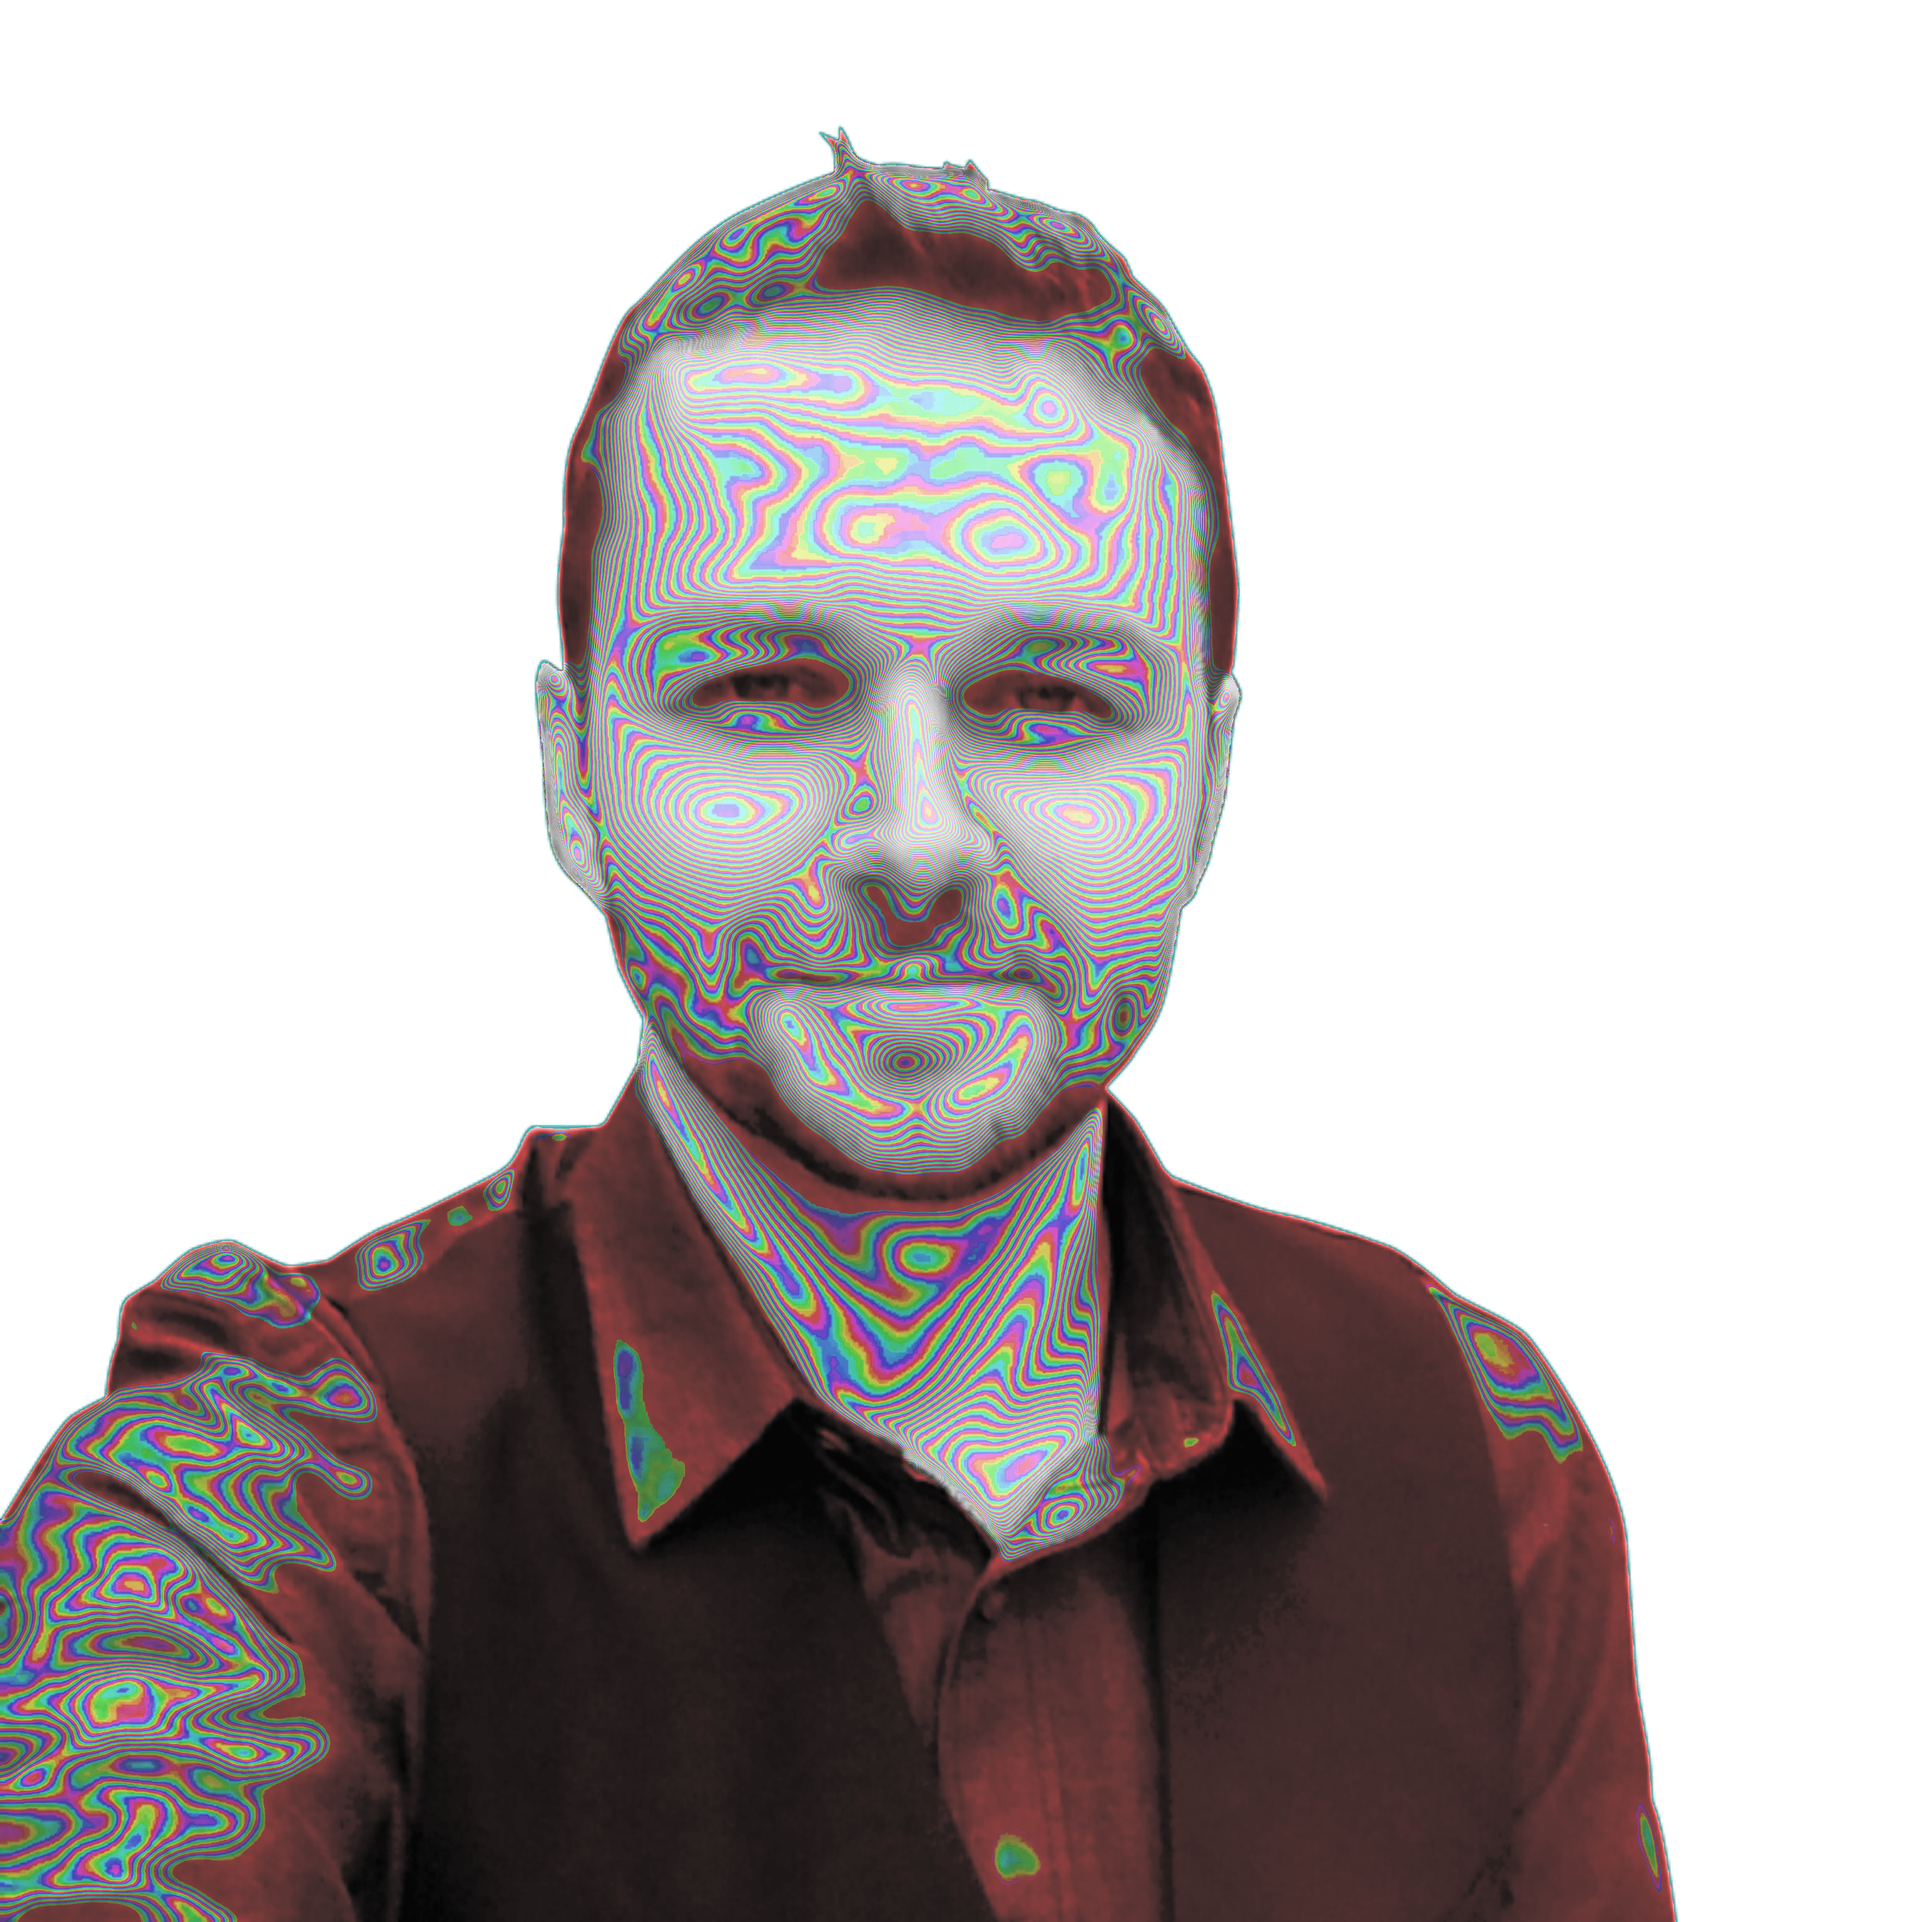
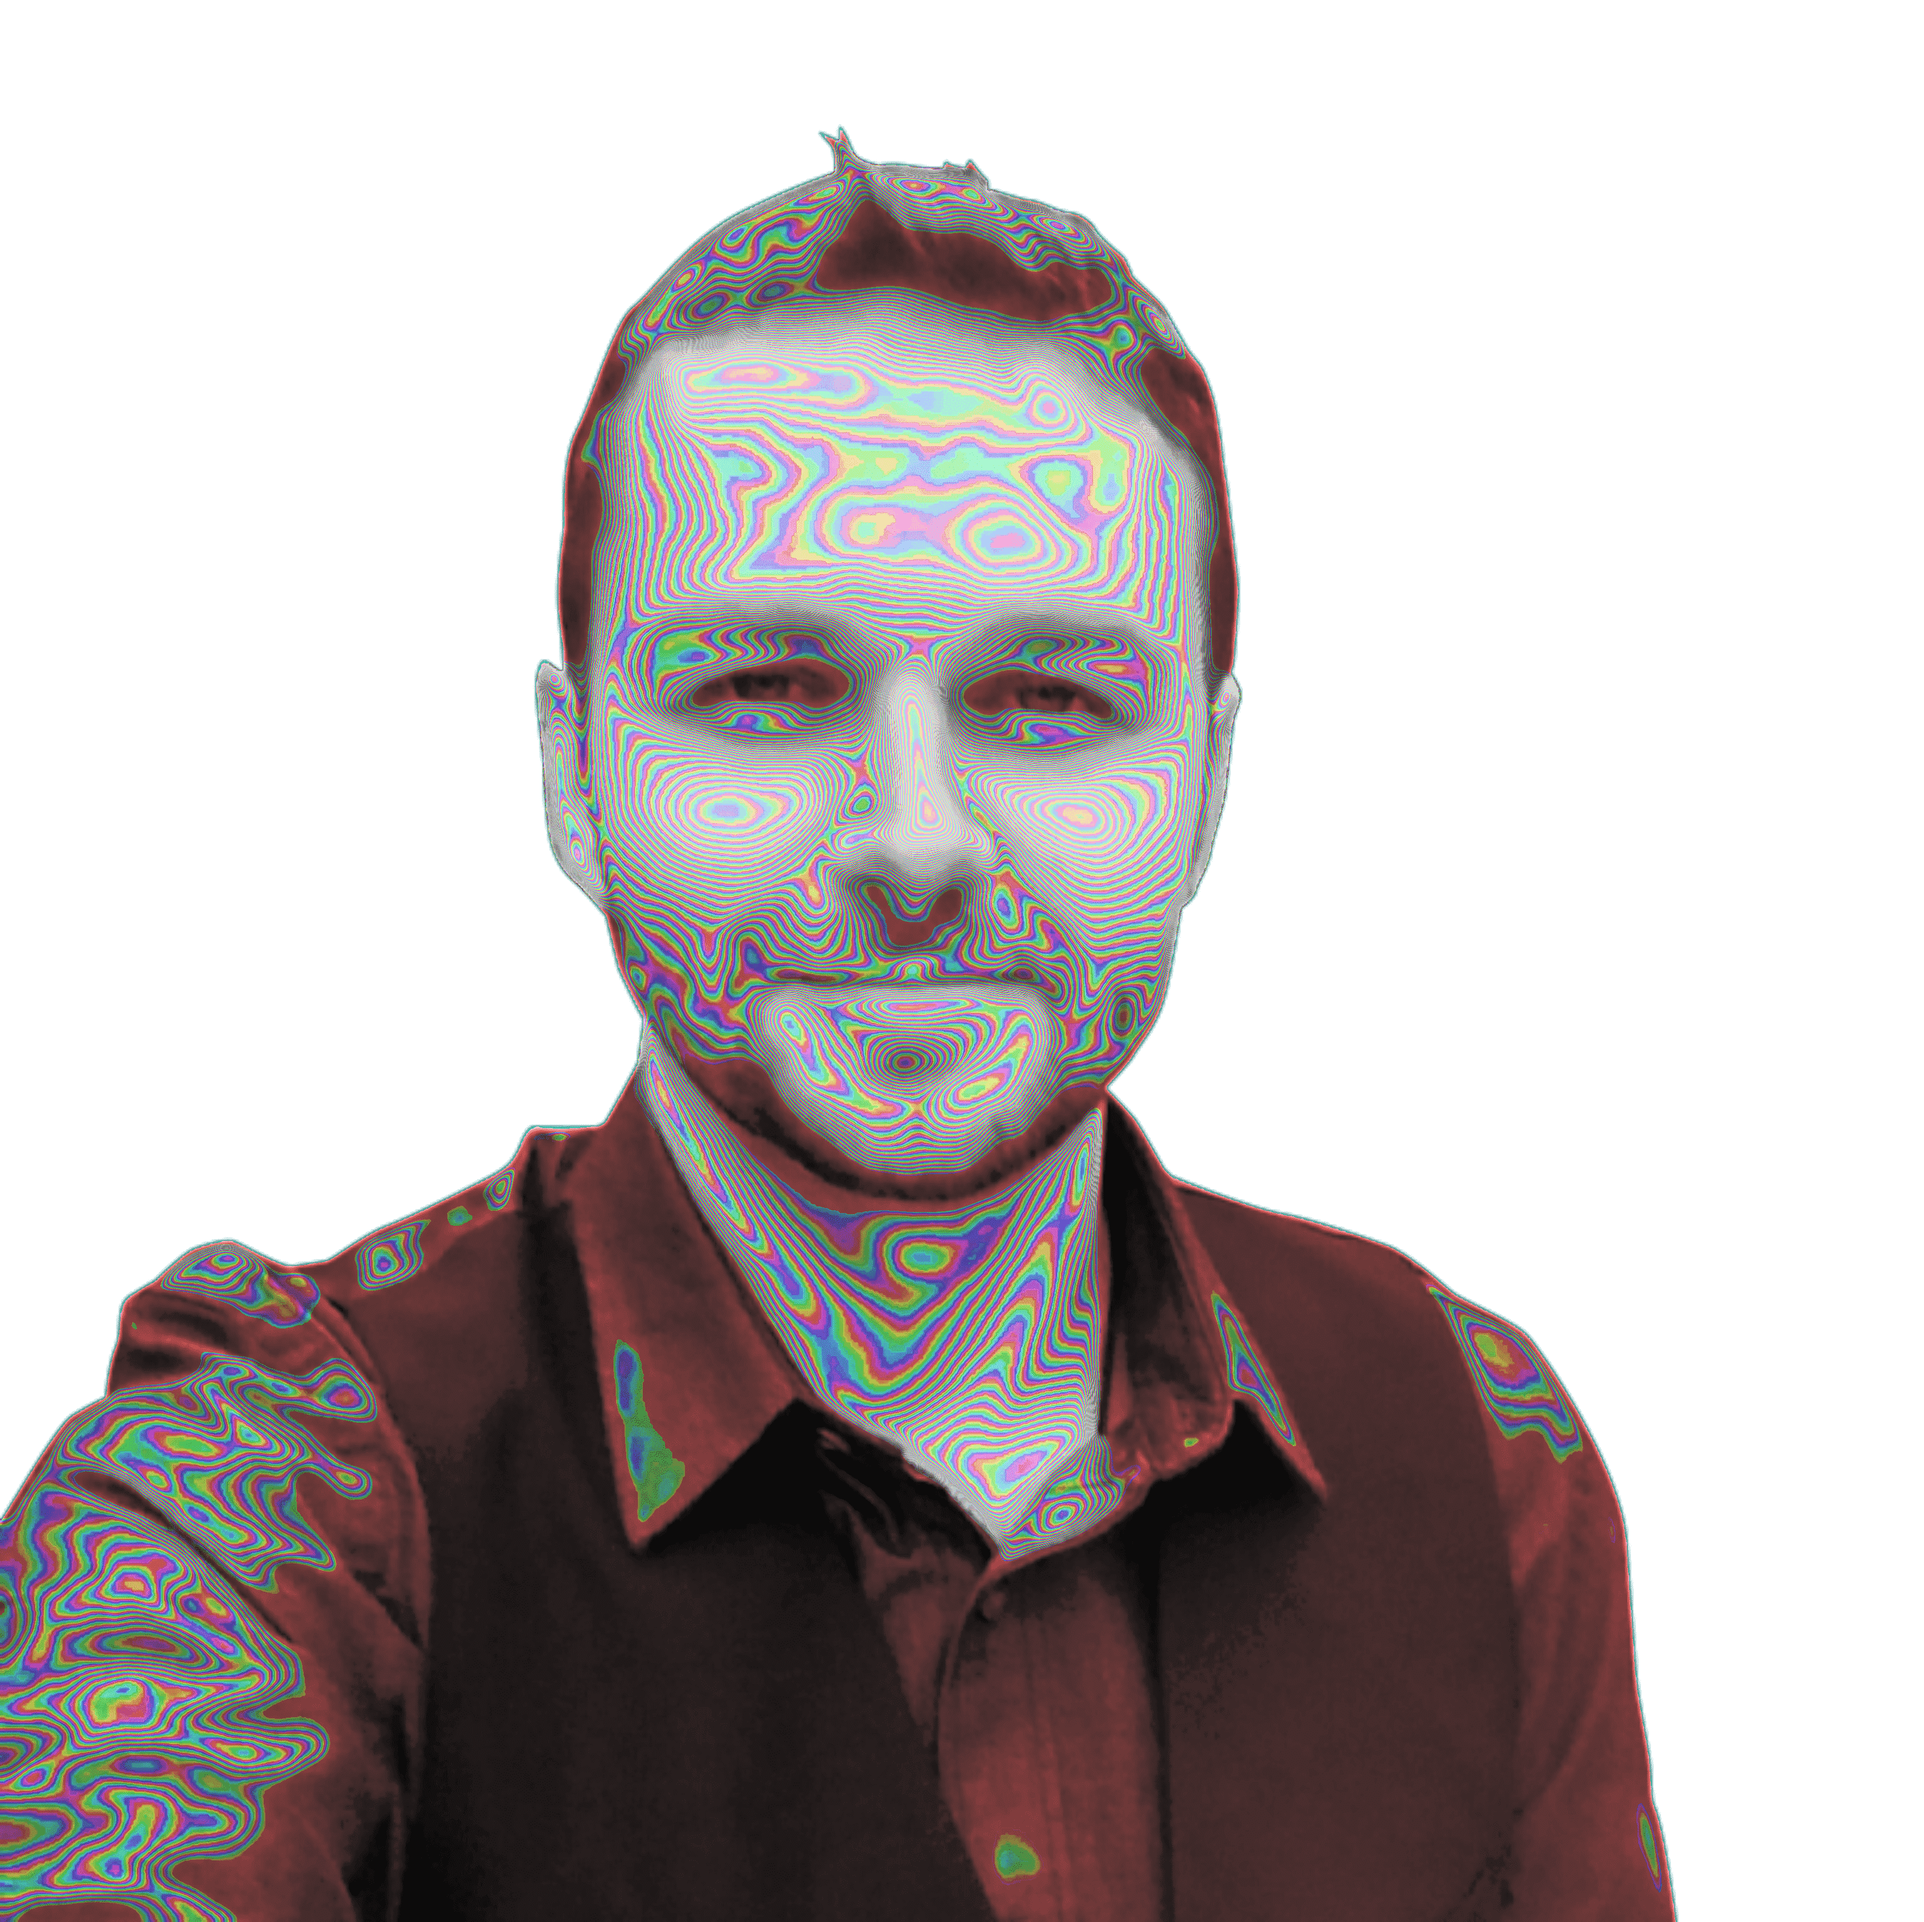
Optimized more images; Added loading indicator for slower connections

diff --git a/client/src/components/LoadApp.js b/client/src/components/LoadApp.js
@@ -1,0 +1,37 @@
+import React, {Component} from 'react'
+import App from './App.js'
+
+class LoadApp extends Component {
+   state = {loaded: false}
+   //    timer = null
+
+   componentDidMount() {
+      //   this.timer = setInterval(this.checkStuff, 50)
+      this.checkStuff()
+   }
+
+   componentWillUnmount() {
+      //   clearInterval(this.timer)
+   }
+
+   checkStuff() {
+      const myBg = document.body.style.background
+      document.body.style.background = 'none'
+      document.body.onload = (e) => {
+         document.body.style.background = myBg
+         this.setState({loaded: true})
+      }
+   }
+
+   render() {
+      return this.state.loaded ? (
+         <App />
+      ) : (
+         <img
+            src={require('../assets/loader.gif')}
+            alt='Loading'
+            style={{position: 'absolute', top: '30vh', left: '30vw'}}></img>
+      )
+   }
+}
+export default LoadApp

diff --git a/client/src/index.js b/client/src/index.js
@@ -1,10 +1,10 @@
 import React from 'react'
 import ReactDOM from 'react-dom'
 import './styles/index.css'
-import App from './components/App'
+import LoadApp from './components/LoadApp'
 import * as serviceWorker from './serviceWorker'
 
-ReactDOM.render(<App />, document.getElementById('root'))
+ReactDOM.render(<LoadApp />, document.getElementById('root'))
 
 // If you want your app to work offline and load faster, you can change
 // unregister() to register() below. Note this comes with some pitfalls.
